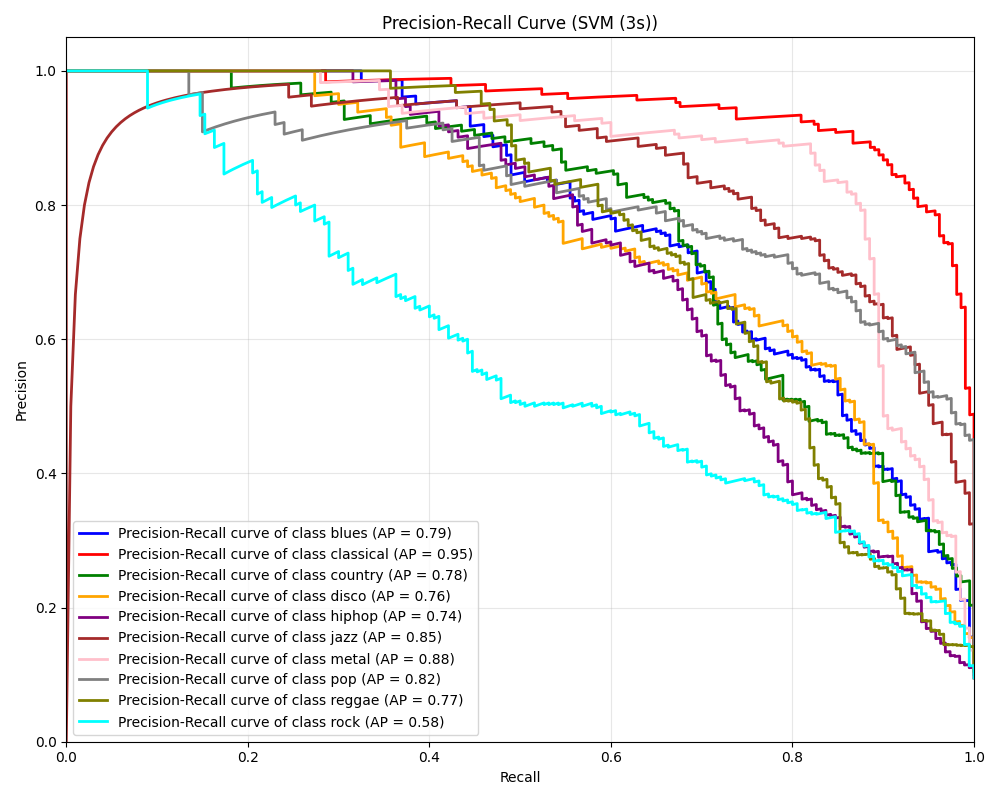
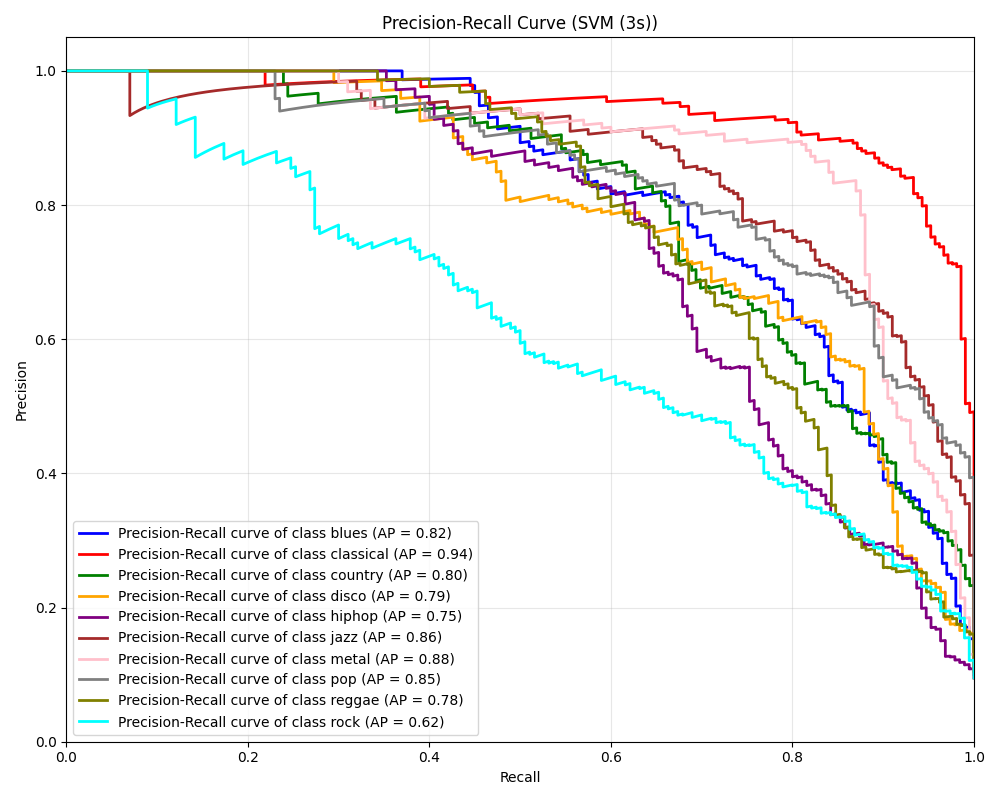
10_features

diff --git a/main_10.py b/main_10.py
@@ -1,0 +1,116 @@
+import os
+import sys
+import pandas as pd
+import numpy as np
+from sklearn.ensemble import RandomForestClassifier
+
+# Importacions del teu projecte original
+from carrega_dades import split_datos_3s, split_datos_30s, cargar_y_preprocesar_datos_3s, cargar_y_preprocesar_datos_30s
+from Models import (
+    executar_knn, executar_random_forest, executar_svm, executar_xgboost, 
+    executar_regressio_logistica, executar_decision_tree, executar_gmm_classifier, 
+    executar_naive_bayes 
+)
+from plots_2 import plot_comparative_roc
+
+# --- CONFIGURACIÓ ---
+RANDOM_STATE = 42
+TOP_N = 10
+
+def obtenir_top_features(X_train_scaled, y_train, feature_names, n=10):
+    """
+    Entrena un Random Forest ràpid per identificar les n millors variables.
+    """
+    print(f"\n🔍 Calculant les {n} millors variables mitjançant Random Forest...")
+    selector = RandomForestClassifier(n_estimators=100, random_state=RANDOM_STATE, n_jobs=-1)
+    selector.fit(X_train_scaled, y_train)
+    
+    importances = selector.feature_importances_
+    indices = np.argsort(importances)[::-1][:n]
+    
+    top_features = [feature_names[i] for i in indices]
+    print(f"✅ Top {n} detectat: {top_features}")
+    return indices, top_features
+
+def main():
+    print("--- 🎼 EXPERIMENT: CLASSIFICACIÓ AMB TOP 10 FEATURES ---")
+    
+    # 1. SELECCIÓ DE DATASET (Simulem la teva lògica del main)
+    print("Quin dataset vols utilitzar per l'experiment Top 10?")
+    print(" [1] 3 segons | [2] 30 segons")
+    choice_data = input("Tria 1 o 2: ").strip()
+    
+    if choice_data == '1':
+        data_type, func_split, func_pre = '3s_Top10', split_datos_3s, cargar_y_preprocesar_datos_3s
+    else:
+        data_type, func_split, func_pre = '30s_Top10', split_datos_30s, cargar_y_preprocesar_datos_30s
+
+    # 2. CARREGAR DADES I OBTENIR NOMS DE COLUMNES
+    # Necessitem la càrrega pre-split per tenir els noms de les columnes (X és DataFrame)
+    datos_raw = func_pre()
+    X_raw = datos_raw[0] 
+    feature_names = X_raw.columns.tolist()
+
+    # 3. EXECUTAR SPLIT ORIGINAL (Dades escalades)
+    X_train, X_test, y_train, y_test, label_encoder, scaler = func_split(random_state=RANDOM_STATE)
+
+    # 4. SELECCIONAR ÍNDEXS DE LES TOP 10
+    top_indices, top_names = obtenir_top_features(X_train, y_train, feature_names, n=TOP_N)
+
+    # 5. FILTRAR MATRIUS
+    X_train_top = X_train[:, top_indices]
+    X_test_top = X_test[:, top_indices]
+
+    # 6. EXECUTAR TOTS ELS MODELS AMB LES DADES REDUÏDES
+    # Reutilitzem el teu mapa de models adaptant les noves X_train/X_test
+    model_map = {
+        'KNN': lambda: executar_knn(X_train_top, X_test_top, y_train, y_test, label_encoder, data_type),
+        'RF': lambda: executar_random_forest(X_train_top, X_test_top, y_train, y_test, label_encoder, data_type),
+        'SVM': lambda: executar_svm(X_train_top, X_test_top, y_train, y_test, label_encoder, data_type),
+        'XGB': lambda: executar_xgboost(X_train_top, X_test_top, y_train, y_test, label_encoder, top_names, data_type),
+        'LR': lambda: executar_regressio_logistica(X_train_top, X_test_top, y_train, y_test, label_encoder, data_type),
+        'DT': lambda: executar_decision_tree(X_train_top, X_test_top, y_train, y_test, label_encoder, data_type),
+        'GMM': lambda: executar_gmm_classifier(X_train_top, X_test_top, y_train, y_test, label_encoder, data_type),
+        'NB': lambda: executar_naive_bayes(X_train_top, X_test_top, y_train, y_test, label_encoder, data_type),
+    }
+
+    results = []
+    prob_dict = {}
+    
+    for name, func in model_map.items():
+        res = func()
+        results.append(res)
+        if res.get('probabilities') is not None:
+            prob_dict[res['model']] = res['probabilities']
+
+    # 7. COMPARATIVA I RESUM
+    if prob_dict:
+        plot_comparative_roc(y_test, prob_dict, list(prob_dict.keys()), label_encoder.classes_, data_type)
+
+    print("\n" + "="*60)
+    print(f"🏆 RESUM DE RENDIMENT AMB NOMÉS {TOP_N} FEATURES ({data_type})")
+    print("="*60)
+    
+    # Neteja de probabilitats per a la taula
+    for r in results: r.pop('probabilities', None)
+    
+    df_final = pd.DataFrame(results).set_index('model')
+    print(df_final.sort_values(by='f1_score', ascending=False).to_markdown(floatfmt=".4f"))
+
+"""
+============================================================
+🏆 RESUM DE RENDIMENT AMB NOMÉS 10 FEATURES (3s_Top10)
+============================================================
+| model                               |   accuracy |   train_accuracy |   f1_score |
+|:------------------------------------|-----------:|-----------------:|-----------:|
+| SVM (3s_Top10)                      |     0.6073 |           0.6521 |     0.6034 |
+| KNN (3s_Top10)                      |     0.5928 |           0.9987 |     0.5896 |
+| Random Forest (3s_Top10)            |     0.5828 |           0.7002 |     0.5772 |
+| GMM Classifier (3s_Top10)           |     0.5748 |           0.7257 |     0.5740 |
+| XGBoost (3s_Top10)                  |     0.5663 |           0.6545 |     0.5593 |
+| Regressió Logística (3s_Top10)      |     0.5313 |           0.5464 |     0.5243 |
+| Decision Tree (3s_Top10)            |     0.5148 |           0.9987 |     0.5145 |
+| Naive Bayes (GaussianNB - 3s_Top10) |     0.4532 |           0.4555 |     0.4334 |
+"""
+if __name__ == "__main__":
+    main()

diff --git a/main.py b/main.py
@@ -176,5 +176,22 @@ def main():
                 print(df_results.sort_values(by='f1_score', ascending=False).to_markdown(floatfmt=".4f"))
             print("="*50)
 
+"""
+==================================================
+       ✨ RESUM DE RENDIMENT FINAL (3S) ✨
+==================================================
+| model                         |   accuracy |   train_accuracy |   f1_score |
+|:------------------------------|-----------:|-----------------:|-----------:|
+| SVM (3s)                      |     0.7384 |           0.8660 |     0.7357 |
+| XGBoost (3s)                  |     0.6988 |           0.8067 |     0.6962 |
+| GMM Classifier (3s)           |     0.6933 |           0.9772 |     0.6945 |
+| KNN (3s)                      |     0.6853 |           0.9987 |     0.6871 |
+| Regressió Logística (3s)      |     0.6833 |           0.7528 |     0.6802 |
+| Random Forest (3s)            |     0.6603 |           0.7655 |     0.6520 |
+| Decision Tree (3s)            |     0.5358 |           0.9987 |     0.5369 |
+| Naive Bayes (GaussianNB - 3s) |     0.5258 |           0.5298 |     0.5120 |
+==================================================
+"""
+
 if __name__ == "__main__":
     main()
